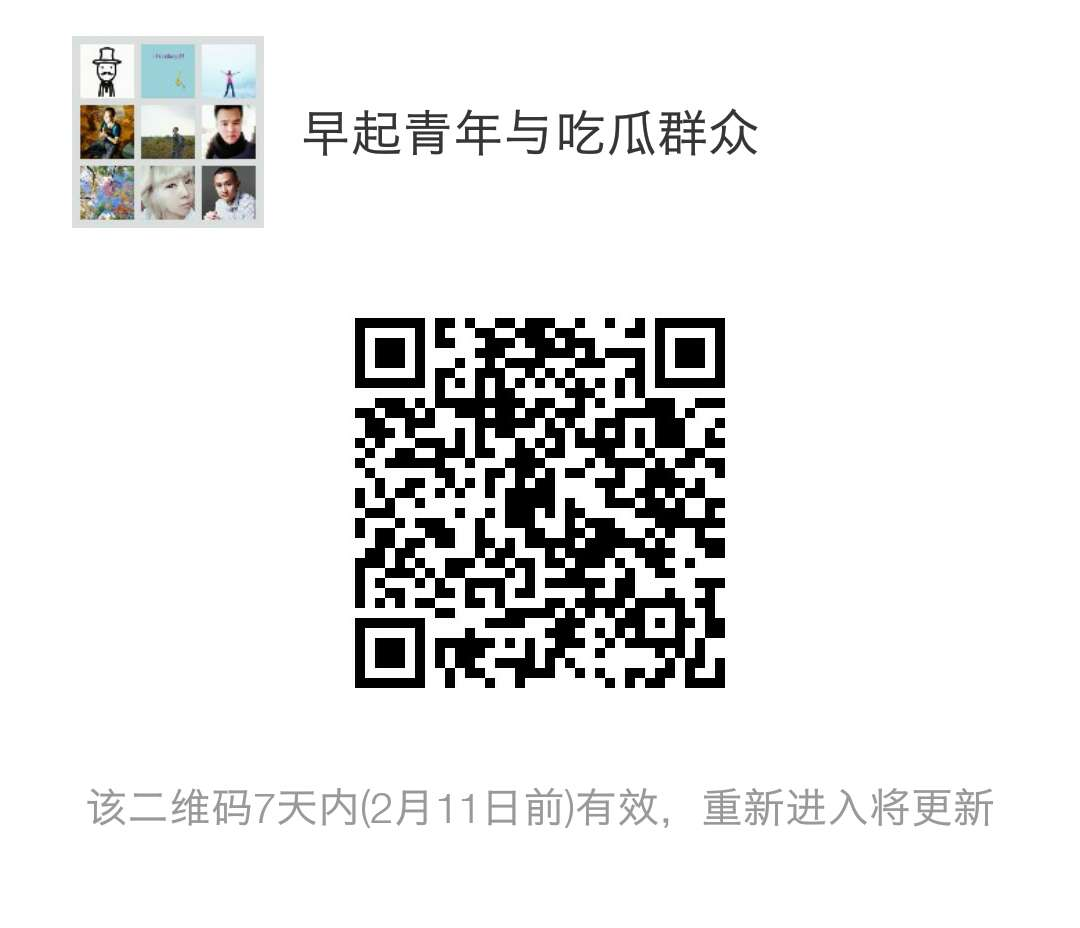
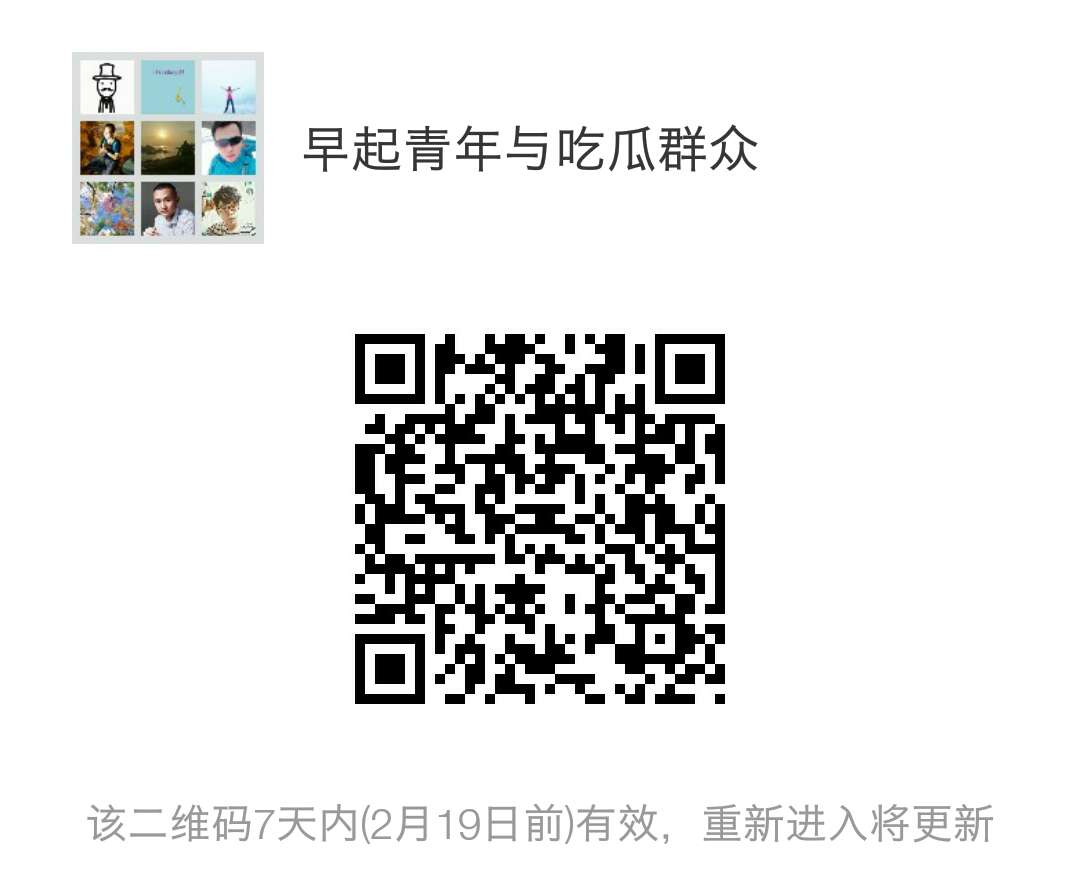
例行更新

diff --git a/README.md b/README.md
@@ -85,6 +85,10 @@
 * 本周每天都按时打卡的人共15人，占比83.33%。
 * 早起青年们共发出红包 4次，累计80元。
 
+#### 20170212 第六周
+* 早起青年19人（增加1人），吃瓜群众7人（增加1人，减少1人）
+* 本周每天都按时打卡的人共13人，占比68.4%。
+* 早起青年们共发出红包 6次，累计120元。
 
 ## 7. 如何加入
 ![](http://wangwanggame.com/morning/weixin.jpeg)
